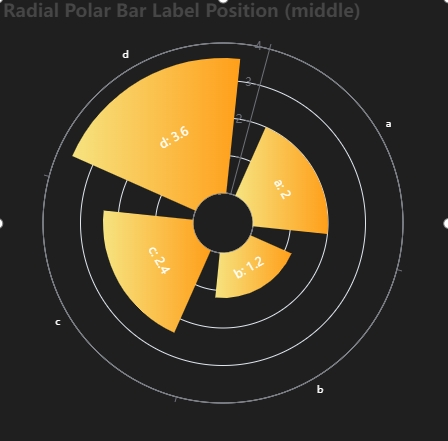
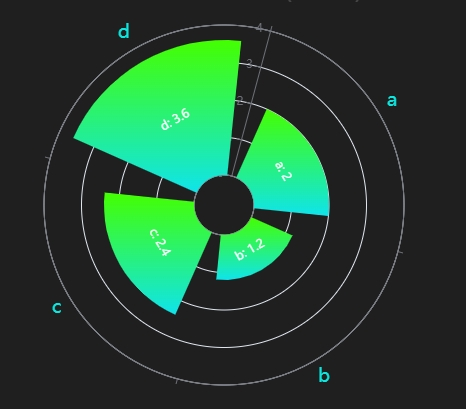
模板改造

diff --git a/src/assets/componentData/analysis.js b/src/assets/componentData/analysis.js
@@ -73,13 +73,13 @@ export const BarChart1 = {
                                     name: "起始颜色",
                                     type: "el-color-picker",
                                     field: "barStartColorof1",
-                                    default: "#0000ff",
+                                    default: "rgba(32, 198, 217, 1)",
                                 },
                                 {
                                     name: "终止颜色",
                                     type: "el-color-picker",
                                     field: "barEndColorof1",
-                                    default: "#0000ff",
+                                    default: "rgba(0, 255, 123, 1)",
                                 },
                             ],
                         },
@@ -167,13 +167,13 @@ export const BarChart2 = {
                                 name: "起始颜色",
                                 type: "el-color-picker",
                                 field: "barStartColorof1",
-                                default: "#0000ff",
+                                default: "rgba(155, 230, 140, 1)",
                             },
                             {
                                 name: "终止颜色",
                                 type: "el-color-picker",
                                 field: "barEndColorof1",
-                                default: "#0000ff",
+                                default: "rgba(17, 179, 220, 1)",
                             },
                         ],
                     },
@@ -273,6 +273,12 @@ export const BarChart3 = {
                 default: "#fff",
             },
             {
+                name: "图例颜色",
+                type: "el-color-picker",
+                field: "lengendColor",
+                default: "#fff",
+            },
+            {
                 name: "图表颜色",
                 type: "barColor",
                 children: [
@@ -284,13 +290,13 @@ export const BarChart3 = {
                                 name: "起始颜色",
                                 type: "el-color-picker",
                                 field: "barStartColorof1",
-                                default: "#0000ff",
+                                default: "rgba(4, 255, 0, 1)",
                             },
                             {
                                 name: "终止颜色",
                                 type: "el-color-picker",
                                 field: "barEndColorof1",
-                                default: "#0000ff",
+                                default: "rgba(14, 208, 202, 1)",
                             },
                         ],
                     },
@@ -302,13 +308,13 @@ export const BarChart3 = {
                                 name: "起始颜色",
                                 type: "el-color-picker",
                                 field: "barStartColorof2",
-                                default: "#0000ff",
+                                default: "rgba(187, 224, 2, 1)",
                             },
                             {
                                 name: "终止颜色",
                                 type: "el-color-picker",
                                 field: "barEndColorof2",
-                                default: "#0000ff",
+                                default: "rgba(245, 202, 12, 1)",
                             },
                         ],
                     },
@@ -575,13 +581,13 @@ export const polarBar = {
                                     name: "起始颜色",
                                     type: "el-color-picker",
                                     field: "barStartColorof1",
-                                    default: "#0000ff",
+                                    default: "rgba(42, 255, 0, 1)",
                                 },
                                 {
                                     name: "终止颜色",
                                     type: "el-color-picker",
                                     field: "barEndColorof1",
-                                    default: "#0000ff",
+                                    default: "rgba(0, 255, 229, 1)",
                                 },
                             ],
                         },
@@ -656,13 +662,13 @@ export const polarBar2 = {
                                     name: "起始颜色",
                                     type: "el-color-picker",
                                     field: "barStartColorof1",
-                                    default: "#0000ff",
+                                    default: "rgba(42, 255, 0, 1)",
                                 },
                                 {
                                     name: "终止颜色",
                                     type: "el-color-picker",
                                     field: "barEndColorof1",
-                                    default: "#0000ff",
+                                    default: "rgba(0, 255, 229, 1)",
                                 },
                             ],
                         },
@@ -759,6 +765,8 @@ export const lineChart1 = {
                     field: "ycontentColor",
                     default: "#fff",
                 },
+
+
                 {
                     name: "图表颜色",
                     type: "barColor",
@@ -872,6 +880,12 @@ export const lineChart2 = {
                 name: "y轴名称颜色",
                 type: "el-color-picker",
                 field: "ycontentColor",
+                default: "#fff",
+            },
+            {
+                name: "图例颜色",
+                type: "el-color-picker",
+                field: "legendColor",
                 default: "#fff",
             },
             {

diff --git a/src/components/echarts/lineChart/line2.vue b/src/components/echarts/lineChart/line2.vue
@@ -59,6 +59,10 @@ const props = defineProps({
     type: String,
     default: "#fff",
   },
+  legendColor: {
+    type: String,
+    default: "#fff",
+  },
   //柱子颜色
   barStartColorof1: {
     type: String,
@@ -107,13 +111,12 @@ const state = reactive({
         },
       },
     },
-    // legend: {
-    //     data: ["供水", "回水"],
-    //     top: "15%",
-    //     textStyle: {
-    //         color: "#ffffff"
-    //     }
-    // },
+    legend: {
+      top: "15%",
+      textStyle: {
+        color: "#ffffff"
+      }
+    },
     xAxis: {
       data: ["国投热源1#", "国投热源2#", "城西热源"],
       axisLine: {
@@ -320,6 +323,20 @@ watch(
   (newVal) => {
     if (newVal) {
       state.option.xAxis.nameTextStyle.color = newVal;
+      setOption(state.option);
+    }
+  },
+  {
+    immediate: true,
+    deep: true,
+  }
+);
+//监听x轴name颜色
+watch(
+  () => props.legendColor,
+  (newVal) => {
+    if (newVal) {
+      state.option.legend.textStyle.color = newVal;
       setOption(state.option);
     }
   },

diff --git a/src/assets/componentList/analysis.js b/src/assets/componentList/analysis.js
@@ -45,7 +45,7 @@ const analysis = [
                 height: 450, // 
                 name: '双柱状图',
                 uuid: 'A4',
-                image: "/public/img/bar5.jpg",
+                image: "/public/img/bar6.jpg",
                 isShow: true
             },
             {
@@ -67,17 +67,6 @@ const analysis = [
                 height: 450, // 
                 name: '极坐标柱状图-样式2',
                 uuid: 'A6',
-                image: "/public/img/bar4.jpg",
-                isShow: true
-            },
-            {
-                type: 'BarChart4', // 组件名
-                mark: 'BarChart4', // 配置数据的名字
-                fabricType: 'rect',
-                width: 450, // 初始化大小
-                height: 450, // 
-                name: '极坐标柱状图-样式2',
-                uuid: 'A7',
                 image: "/public/img/bar4.jpg",
                 isShow: true
             }

diff --git a/src/components/echarts/barChart/bar3.vue b/src/components/echarts/barChart/bar3.vue
@@ -59,6 +59,10 @@ const props = defineProps({
     type: String,
     default: "#fff",
   },
+  lengendColor: {
+    type: String,
+    default: "#fff",
+  },
   //柱子颜色
   barStartColorof1: {
     type: String,
@@ -92,7 +96,11 @@ const state = reactive({
         type: "shadow",
       },
     },
-    legend: {},
+    legend: {
+      textStyle: {
+        color: '#ff0000'  // 修改为红色
+      },
+    },
     grid: {
       left: "3%",
       right: "4%",
@@ -223,6 +231,20 @@ watch(
     if (newVal) {
       console.log("newval~~变化了", newVal);
       state.option.xAxis.axisLabel.textStyle.color = newVal;
+      setOption(state.option);
+    }
+  },
+  {
+    immediate: true,
+    deep: true,
+  }
+);
+
+watch(
+  () => props.lengendColor,
+  (newVal) => {
+    if (newVal) {
+      state.option.legend.textStyle.color = newVal;
       setOption(state.option);
     }
   },

diff --git a/src/components/echarts/barChart/bar4.vue b/src/components/echarts/barChart/bar4.vue
@@ -62,19 +62,19 @@ const props = defineProps({
   //柱子颜色
   barStartColorof1: {
     type: String,
-    default: "#0000ff",
+    default: "rgba(4, 255, 0, 1)",
   },
   barEndColorof1: {
     type: String,
-    default: "#0000ff",
+    default: "rgba(14, 208, 202, 1)",
   },
   barStartColorof2: {
     type: String,
-    default: "#0000ff",
+    default: "rgba(187, 224, 2, 1)",
   },
   barEndColorof2: {
     type: String,
-    default: "#0000ff",
+    default: "rgba(245, 202, 12, 1)",
   },
 });
 

diff --git a/src/assets/componentList/line.js b/src/assets/componentList/line.js
@@ -12,7 +12,7 @@ const lines = [
                 height: 450, // 
                 name: '普通折线图',
                 uuid: 'A1',
-                image: "/public/img/bar1.jpg",
+                image: "/public/img/line1.jpg",
                 isShow: true
             },
             {

diff --git a/src/components/echarts/barChart/bar2.vue b/src/components/echarts/barChart/bar2.vue
@@ -45,11 +45,11 @@ const props = defineProps({
   //柱子颜色
   barStartColorof1: {
     type: String,
-    default: "#0000ff",
+    default: "rgba(155, 230, 140, 1)",
   },
   barEndColorof1: {
     type: String,
-    default: "#0000ff",
+    default: "rgba(17, 179, 220, 1)",
   },
 });
 

diff --git a/src/components/echarts/barChart/bar1.vue b/src/components/echarts/barChart/bar1.vue
@@ -62,11 +62,11 @@ const props = defineProps({
   //柱子颜色
   barStartColorof1: {
     type: String,
-    default: "#0000ff",
+    default: "rgba(32, 198, 217, 1)",
   },
   barEndColorof1: {
     type: String,
-    default: "#0000ff",
+    default: "rgba(0, 255, 123, 1)",
   }
 });
 

diff --git a/src/components/echarts/barChart/polarBar.vue b/src/components/echarts/barChart/polarBar.vue
@@ -33,11 +33,11 @@ const props = defineProps({
   //柱子颜色
   barStartColorof1: {
     type: String,
-    default: "#0000ff",
+    default: "rgba(42, 255, 0, 1)",
   },
   barEndColorof1: {
     type: String,
-    default: "#0000ff",
+    default: "rgba(0, 255, 229, 1)",
   },
 });
 

diff --git a/src/components/echarts/barChart/polarBar2.vue b/src/components/echarts/barChart/polarBar2.vue
@@ -33,11 +33,11 @@ const props = defineProps({
   //柱子颜色
   barStartColorof1: {
     type: String,
-    default: "#0000ff",
+    default: "rgba(42, 255, 0, 1)",
   },
   barEndColorof1: {
     type: String,
-    default: "#0000ff",
+    default: "rgba(0, 255, 229, 1)",
   },
 });
 

diff --git a/src/components/echarts/lineChart/line1.vue b/src/components/echarts/lineChart/line1.vue
@@ -62,11 +62,11 @@ const props = defineProps({
   //柱子颜色
   barStartColorof1: {
     type: String,
-    default: "#0000ff",
+    default: "rgba(13, 255, 0, 1)",
   },
   barEndColorof1: {
     type: String,
-    default: "#0000ff",
+    default: "rgba(0, 255, 229, 1)",
   },
 });
 

diff --git a/src/components/echarts/lineChart/line3.vue b/src/components/echarts/lineChart/line3.vue
@@ -5,7 +5,7 @@
 <script setup>
 import * as echarts from "echarts";
 import { onMounted, ref, reactive, watch, nextTick } from "vue";
-defineOptions({ name: "lineChart2" });
+defineOptions({ name: "lineChart3" });
 
 const props = defineProps({
   data: {
